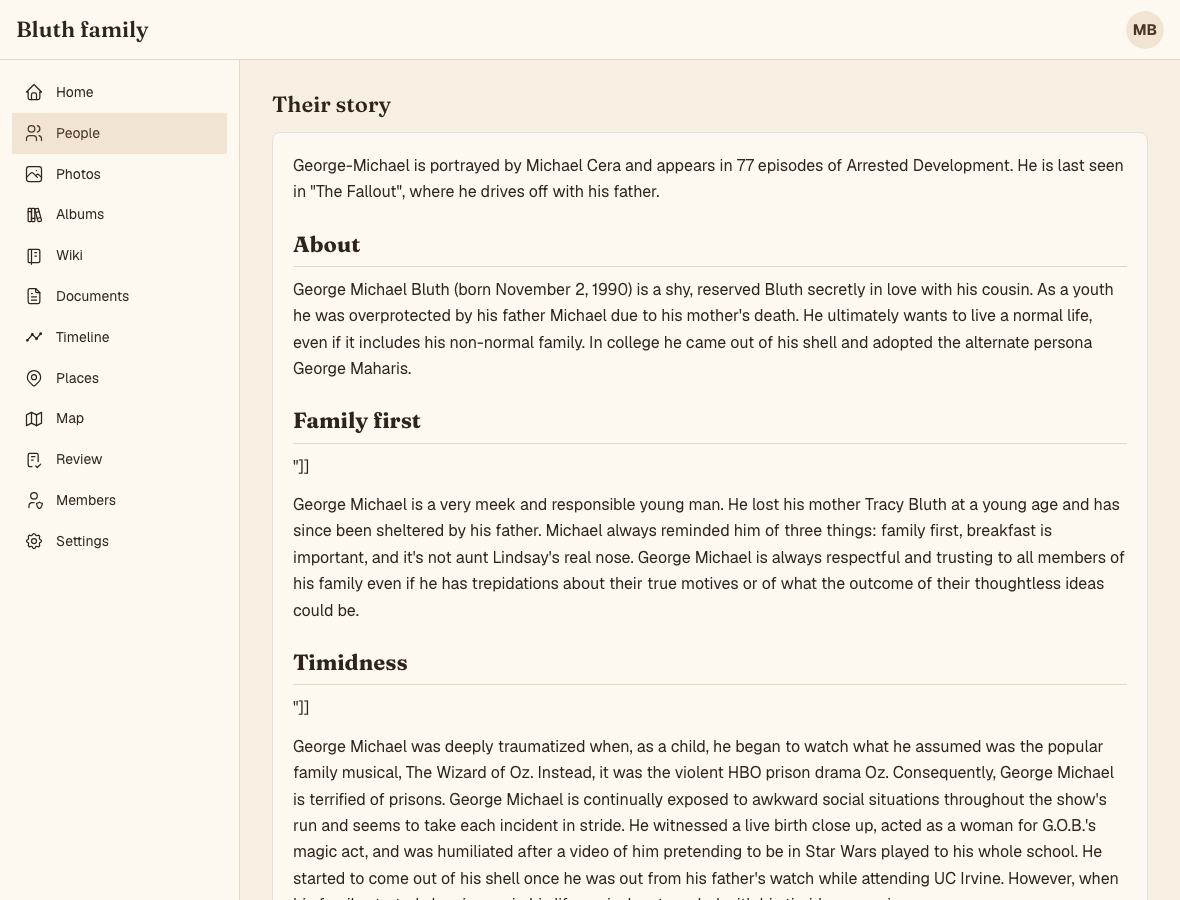
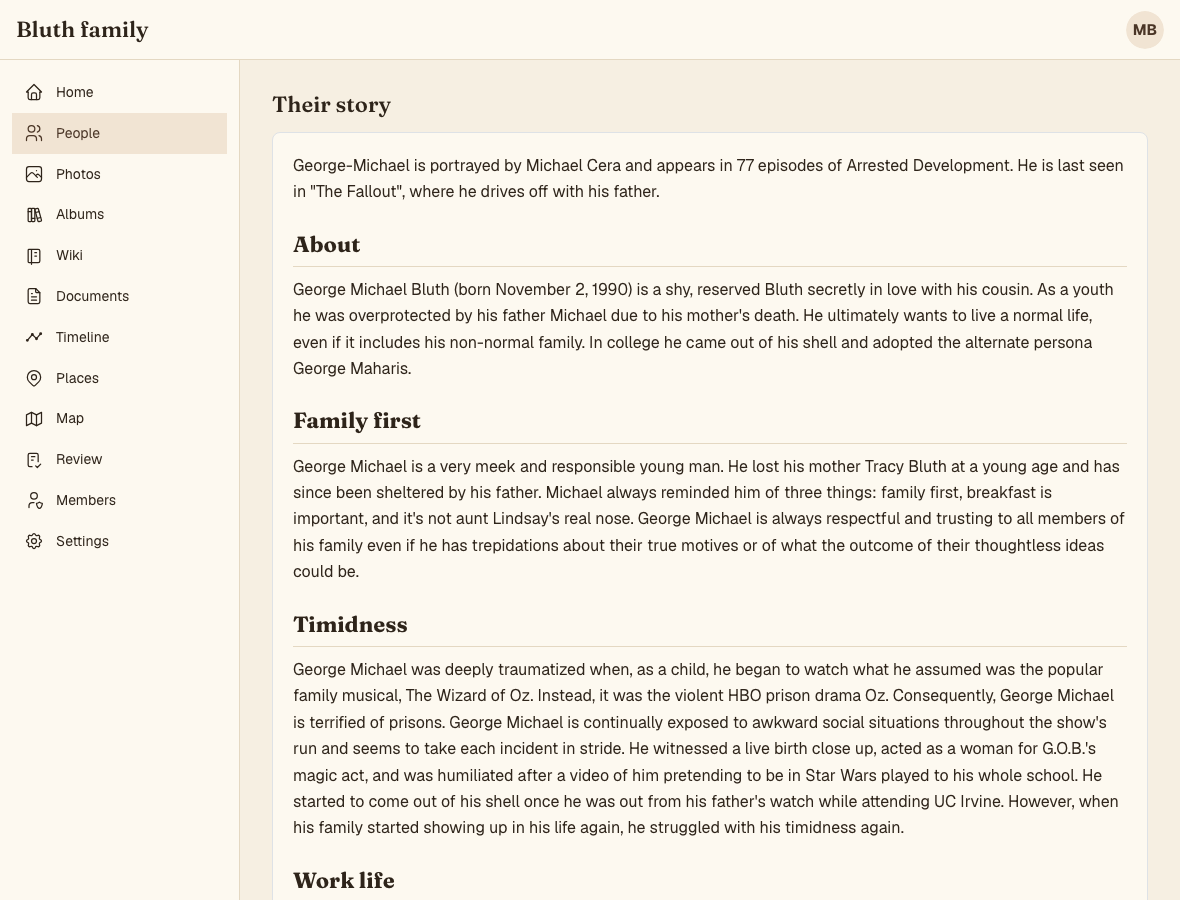
Remove picture-caption leftovers from the Bluth wiki text
The copied articles had debris such as `"]]` at the start of paragraphs.
It is stripped when the seed is read, so documents and wiki pages are clean.

Claude-Session: https://claude.ai/code/session_01FRDKDrMPd82jV1ShiEtSku

Changed region(s): [[0.2441, 0.4978, 0.9458, 1.0]]

diff --git a/scripts/lib/seedData.ts b/scripts/lib/seedData.ts
@@ -78,6 +78,24 @@ export interface SeedEvent {
 
 export const DOCUMENT_KINDS = ["article", "record", "letter", "recipe", "story", "other"] as const;
 
+/**
+ * The wiki articles were copied with the tail ends of picture captions left
+ * in: `"]]`, or `" in "Good Grief"]]`, at the start of a line, sometimes run
+ * straight into the paragraph after, or after the sentence before. This removes each one (everything up to
+ * a `]]` that no `[[` on the line opens) and keeps the paragraph.
+ */
+export function stripCaptionLeftovers(text: string): string {
+  return (
+    text
+      .replace(/^[^[\]\n]{0,120}\]\]/gm, "")
+      // The same, where the caption was run into the end of the sentence before it.
+      .replace(/ {2,}[^[\]\n.]{0,80}(?:"[^"\n]*"[^[\]\n]{0,10})?\]\] ?/g, " ")
+      .replace(/ ?"\]\] ?/g, " ")
+      .replace(/[ \t]+$/gm, "")
+      .replace(/\n{3,}/g, "\n\n")
+  );
+}
+
 export interface SeedDocument {
   /** File name without extension; the stable key. */
   slug: string;
@@ -339,7 +357,7 @@ export function parseSeedDocument(slug: string, file: string): SeedDocument {
     ...(header.scan ? { scan: header.scan } : {}),
     license: header.license ?? "",
     ...(header.retrieved ? { retrieved: header.retrieved } : {}),
-    text: (match ? match[2] : file).trim(),
+    text: stripCaptionLeftovers(match ? match[2] : file).trim(),
   };
 }
 

diff --git a/scripts/__tests__/seedData.test.ts b/scripts/__tests__/seedData.test.ts
@@ -2,6 +2,7 @@ import { existsSync, readdirSync, readFileSync } from "node:fs";
 import { join } from "node:path";
 import {
   chunkMarkdown,
+  stripCaptionLeftovers,
   parseSeedDocument,
   resolveDate,
   validateSeed,
@@ -179,6 +180,36 @@ describe("parseSeedDocument", () => {
       license: "CC-BY-SA 3.0",
       text: "Twin.",
     });
+  });
+});
+
+describe("stripCaptionLeftovers", () => {
+  it("removes the tail of a picture caption and keeps the paragraph it ran into", () => {
+    expect(
+      stripCaptionLeftovers(
+        [
+          "## Timidness",
+          "",
+          '"]]',
+          "",
+          "George Michael was timid.",
+          "",
+          '" in "Borderline Personalities"]]Barry is a lawyer.',
+          ' in "Good Grief"]]',
+          "A real [[link]] stays, and so does [[one|other]].",
+        ].join("\n"),
+      ),
+    ).toBe(
+      [
+        "## Timidness",
+        "",
+        "George Michael was timid.",
+        "",
+        "Barry is a lawyer.",
+        "",
+        "A real [[link]] stays, and so does [[one|other]].",
+      ].join("\n"),
+    );
   });
 });
 

diff --git a/scripts/seed.ts b/scripts/seed.ts
@@ -274,12 +274,7 @@ try {
   for (const doc of data.documents) {
     if (doc.kind !== "article") continue;
     const owner = articleOwner.get(doc.slug);
-    // The copied text has a few leftovers of the wiki's own markup on lines by themselves.
-    const text = doc.text
-      .replace(/^\s*"?\]\]\s*$/gm, "")
-      .replace(/\n{3,}/g, "\n\n")
-      .trim();
-    const body = `${text}\n\n*From the Arrested Development Wiki, ${doc.license.replace(/\s*\(.*\)$/, "")}.* [Where it came from](${doc.sourceUrl})`;
+    const body = `${doc.text}\n\n*From the Arrested Development Wiki, ${doc.license.replace(/\s*\(.*\)$/, "")}.* [Where it came from](${doc.sourceUrl})`;
     const title = owner ? data.people.find((p) => p.slug === owner)!.displayName : doc.title;
     const existing = owner
       ? await db.article.findUnique({

diff --git a/seed/bluth/CORRECTIONS.md b/seed/bluth/CORRECTIONS.md
@@ -118,3 +118,10 @@ The 25 old questions became 35. Changes:
   brothers yet.
 - G.O.B.'s brief marriage is not an event because his wife is never named.
 - Tracey is also spelled "Tracy" in the articles; "Tracy Bluth" is kept as an alternate name.
+
+## Caption leftovers removed from the wiki text (2026-11-12)
+
+The copied articles carried the tail ends of picture captions, such as `"]]` or
+`" in "Good Grief"]]`, at the start of paragraphs. They are markup debris, not text. The files
+are left as copied; `stripCaptionLeftovers` in `scripts/lib/seedData.ts` removes the debris when
+the seed is read, so documents and wiki pages are both clean. No fact changed.
